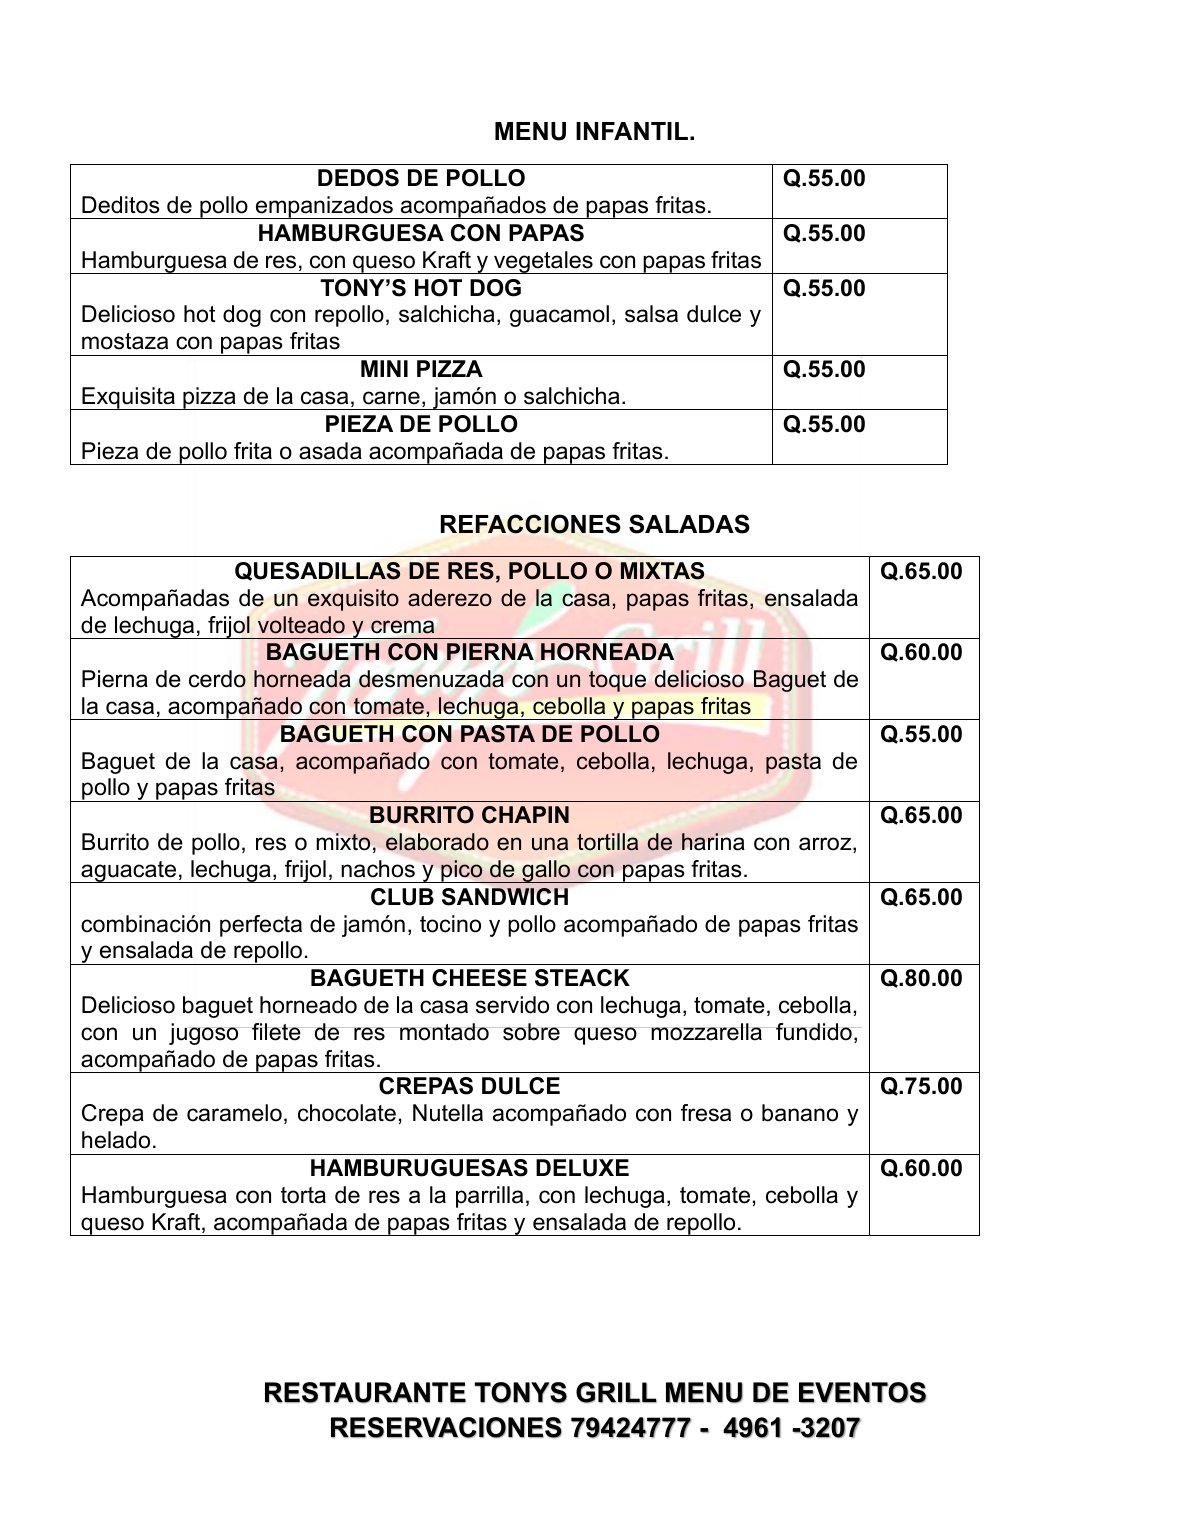
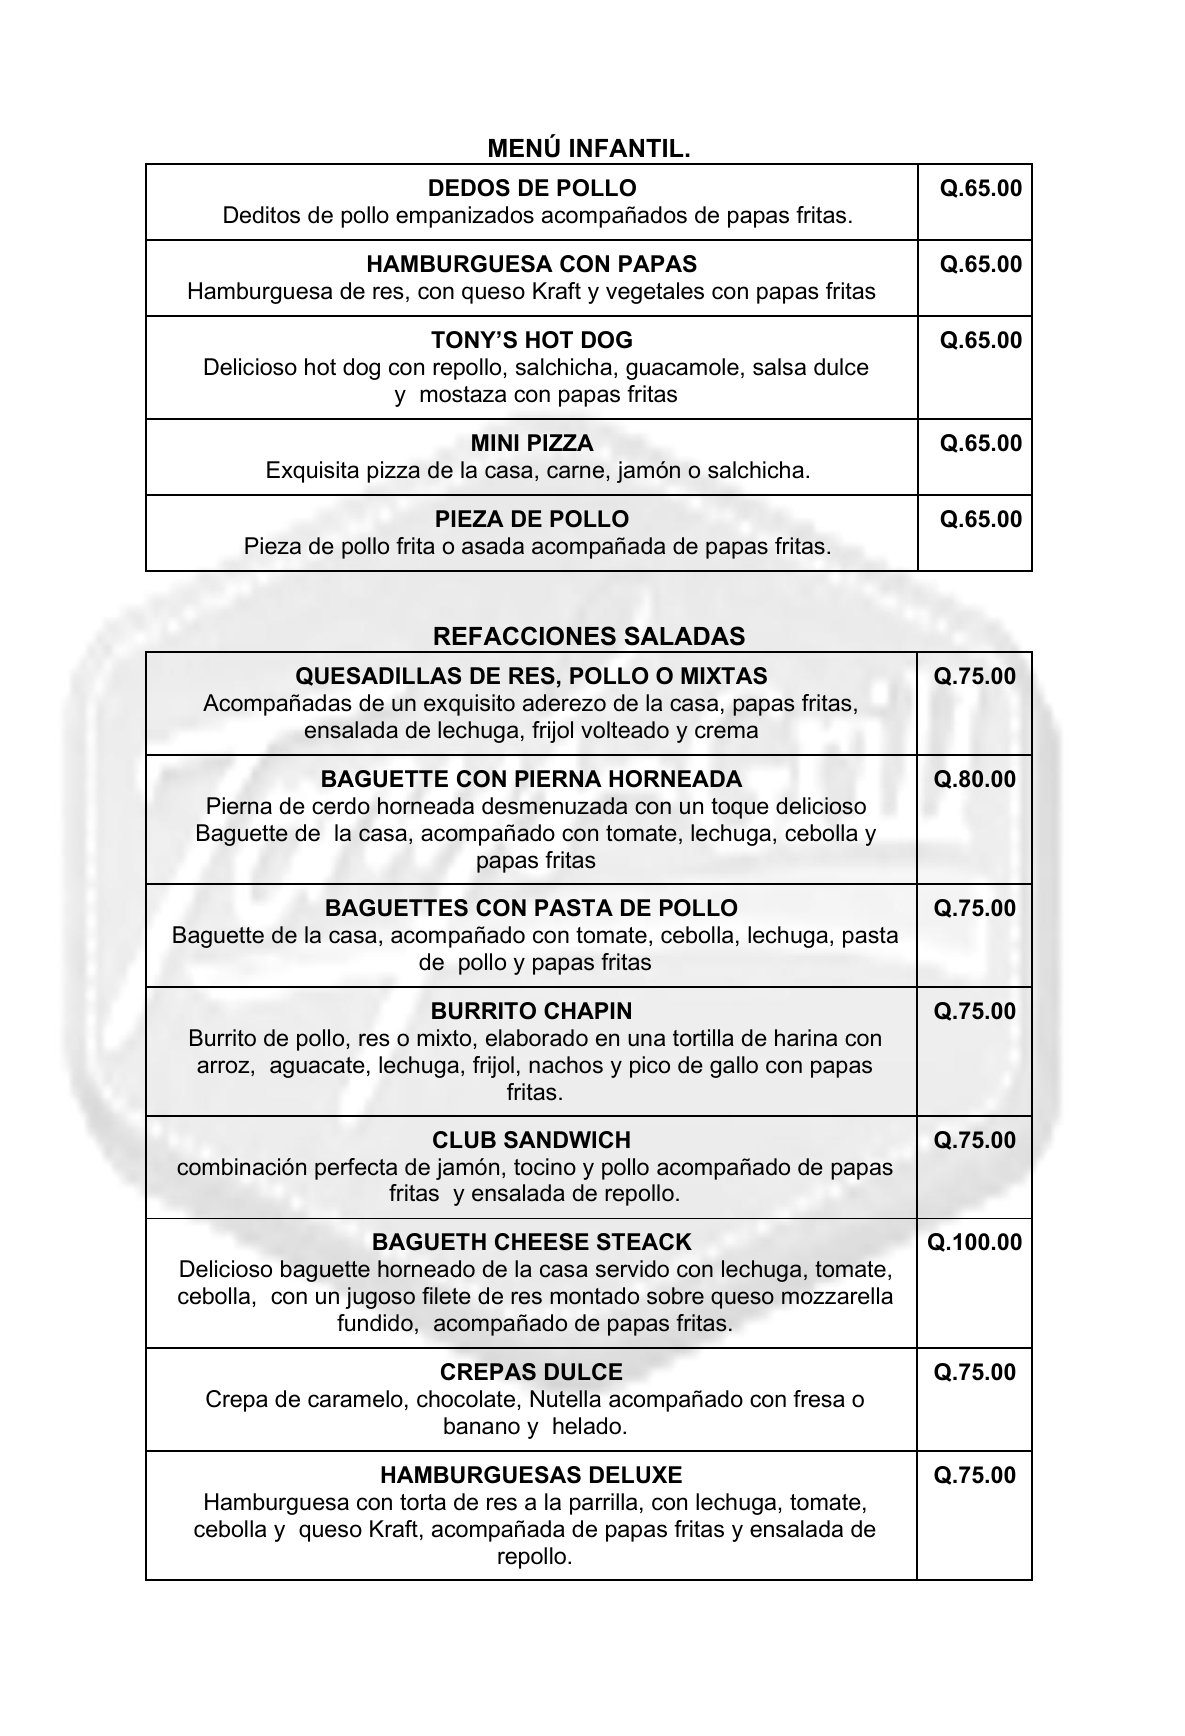
fix: replace Eventos 2024 with official Eventos 2026 menu items, prices, and PDF pages

Changed region(s): [[0.0624, 0.0623, 0.9055, 0.9351], [0.7494, 0.8104, 0.7806, 0.8416]]

diff --git a/src/data/menuData.ts b/src/data/menuData.ts
@@ -77,10 +77,10 @@ export const CATEGORY_PDF_PAGES: Record<string, { title: string; image: string }
     { title: 'Sangría 2x1 & Carpaccio', image: '/menu-pages/page-35.jpg' },
   ],
   eventos: [
-    { title: 'Eventos: Entradas y Platillos Fuertes', image: '/menu-pages/eventos-1.jpg' },
-    { title: 'Eventos: Menú Infantil y Refacciones Saladas', image: '/menu-pages/eventos-2.jpg' },
-    { title: 'Eventos: Servicio V.I.P., Descorche y Pagos', image: '/menu-pages/eventos-3.jpg' },
-    { title: 'Eventos: Condiciones y Salón 2 Nivel', image: '/menu-pages/eventos-4.jpg' },
+    { title: 'Eventos 2026: Entradas y Platillos Fuertes', image: '/menu-pages/eventos-1.jpg' },
+    { title: 'Eventos 2026: Menú Infantil y Refacciones Saladas', image: '/menu-pages/eventos-2.jpg' },
+    { title: 'Eventos 2026: Descorche, Horarios y Pagos', image: '/menu-pages/eventos-3.jpg' },
+    { title: 'Eventos 2026: Salón 1 Nivel y Condiciones', image: '/menu-pages/eventos-4.jpg' },
   ],
 };
 
@@ -434,14 +434,14 @@ export const menuData: MenuDataItem[] = [
     destacado: false,
   },
 
-  // ================= MENÚ DE EVENTOS =================
+  // ================= MENÚ DE EVENTOS 2026 =================
   {
     id: 'evt-01',
     categoria: 'Menú de Eventos',
     slugCategoria: 'eventos',
     nombre: 'Nachos Chili Beans o Supremos (Eventos)',
-    descripcion: 'Porción de nachos con salsa de frijol, carne, pico de gallo o guacamol.',
-    precioQ: 60.00,
+    descripcion: 'Porción de nachos con salsa de frijol, carne, pico de gallo o guacamole.',
+    precioQ: 65.00,
     imagen: '/menu-pages/eventos-1.jpg',
     destacado: false,
   },
@@ -451,7 +451,7 @@ export const menuData: MenuDataItem[] = [
     slugCategoria: 'eventos',
     nombre: 'Ensalada de Chorizo Argentino (Eventos)',
     descripcion: 'Chorizo argentino asado a la parrilla con chimichurri cortado en rodajas con ensalada de lechuga pequeña.',
-    precioQ: 70.00,
+    precioQ: 75.00,
     imagen: '/menu-pages/eventos-1.jpg',
     destacado: false,
   },
@@ -459,7 +459,7 @@ export const menuData: MenuDataItem[] = [
     id: 'evt-03',
     categoria: 'Menú de Eventos',
     slugCategoria: 'eventos',
-    nombre: 'Nachos con Frijol o Guacamol (Eventos)',
+    nombre: 'Nachos con Frijol o Guacamole (Eventos)',
     descripcion: 'Porción de nachos con frijol volteado de la casa o con queso derretido.',
     precioQ: 60.00,
     imagen: '/menu-pages/eventos-1.jpg',
@@ -470,8 +470,8 @@ export const menuData: MenuDataItem[] = [
     categoria: 'Menú de Eventos',
     slugCategoria: 'eventos',
     nombre: 'Pechuga Rellena (Eventos)',
-    descripcion: 'Filete de pollo relleno con jamón y queso, bañado en salsa bechamel, acompañado de verduras y arroz, pan o tortilla. (Opción V.I.P.: Q110.00)',
-    precioQ: 100.00,
+    descripcion: 'Filete de pollo relleno con jamón y queso, bañado en salsa bechamel, acompañado de verduras y arroz, pan o tortilla. (Opción V.I.P.: Q125.00)',
+    precioQ: 110.00,
     imagen: '/menu-pages/eventos-1.jpg',
     destacado: false,
   },
@@ -480,8 +480,8 @@ export const menuData: MenuDataItem[] = [
     categoria: 'Menú de Eventos',
     slugCategoria: 'eventos',
     nombre: 'Parrillada para 1 Persona (Eventos)',
-    descripcion: '4 oz de puyazo importado, 4 oz de filete de pollo, chorizo argentino, ensalada rusa, elote, frijol, guacamol, chirmol, cebollín, papa asada, tortillas o pan. (Opción V.I.P.: Q125.00)',
-    precioQ: 115.00,
+    descripcion: '4 oz de puyazo importado, 4 oz de filete de pollo, chorizo argentino, ensalada rusa, elote, frijol, guacamole, chirmol, cebollín, papa asada, tortillas o pan. (Opción V.I.P.: Q150.00)',
+    precioQ: 135.00,
     imagen: '/menu-pages/eventos-1.jpg',
     destacado: true,
   },
@@ -490,8 +490,8 @@ export const menuData: MenuDataItem[] = [
     categoria: 'Menú de Eventos',
     slugCategoria: 'eventos',
     nombre: 'Filete de Pollo (Eventos)',
-    descripcion: 'Filete de pollo a la parrilla bañado en salsa blanca con champiñones y toque de espinaca, con arroz, verduras salteadas y tortillas o pan. (Opción V.I.P.: Q105.00)',
-    precioQ: 95.00,
+    descripcion: 'Exquisito filete de pollo a la parrilla bañado en salsa blanca con champiñones y toque de espinaca, con arroz, verduras salteadas y tortillas o pan. (Opción V.I.P.: Q125.00)',
+    precioQ: 105.00,
     imagen: '/menu-pages/eventos-1.jpg',
     destacado: false,
   },
@@ -500,8 +500,8 @@ export const menuData: MenuDataItem[] = [
     categoria: 'Menú de Eventos',
     slugCategoria: 'eventos',
     nombre: 'Churrasco Chapín (Eventos)',
-    descripcion: 'Filete de puyazo o lomito nacional, chorizo argentino, papa asada, frijol volteado, chirmol, guacamol, queso fresco, tortillas o pan. (Opción V.I.P.: Q135.00)',
-    precioQ: 125.00,
+    descripcion: 'Filete de puyazo o lomito nacional, chorizo argentino, papa asada, frijol volteado, chirmol, guacamole, queso fresco, tortillas o pan. (Opción V.I.P.: Q155.00)',
+    precioQ: 135.00,
     imagen: '/menu-pages/eventos-1.jpg',
     destacado: true,
   },
@@ -510,8 +510,8 @@ export const menuData: MenuDataItem[] = [
     categoria: 'Menú de Eventos',
     slugCategoria: 'eventos',
     nombre: 'Pollo con Champiñones (Eventos)',
-    descripcion: 'Pieza de pollo con hueso a la parrilla cocinada en salsa a base de vino blanco con champiñones salteados, pan o tortillas. (Opción V.I.P.: Q95.00)',
-    precioQ: 85.00,
+    descripcion: 'Pieza de pollo con hueso a la parrilla cocinada en salsa a base de vino blanco con champiñones salteados, pan o tortillas. (Opción V.I.P.: Q125.00)',
+    precioQ: 100.00,
     imagen: '/menu-pages/eventos-1.jpg',
     destacado: false,
   },
@@ -520,8 +520,8 @@ export const menuData: MenuDataItem[] = [
     categoria: 'Menú de Eventos',
     slugCategoria: 'eventos',
     nombre: 'Puyazo al Vino Tinto (Eventos)',
-    descripcion: '6 oz de puyazo importado sellado a la parrilla, cocinado en vino tinto con papas baby sazonadas y ensalada de lechuga, tortillas o pan. (Opción V.I.P.: Q140.00)',
-    precioQ: 130.00,
+    descripcion: '6 oz de puyazo importado sellado sobre la parrilla y cocinado en vino tinto, acompañado con papas baby sazonadas y ensalada de lechuga, tortillas o pan. (Opción V.I.P.: Q180.00)',
+    precioQ: 165.00,
     imagen: '/menu-pages/eventos-1.jpg',
     destacado: true,
   },
@@ -529,9 +529,9 @@ export const menuData: MenuDataItem[] = [
     id: 'evt-10',
     categoria: 'Menú de Eventos',
     slugCategoria: 'eventos',
-    nombre: 'Chuleta de Cerdo al Vino (Eventos)',
-    descripcion: 'Dos porciones de chuleta de cerdo en salsa de vino tinto, acompañado con arroz y zucchinis salteados con tortillas o pan. (Opción V.I.P.: Q115.00)',
-    precioQ: 100.00,
+    nombre: 'Costilla de Cerdo a la Brasa (Eventos)',
+    descripcion: 'Exquisita costilla de exportación con toque especial del chef, acompañada de vegetales salteados y arroz, con tortillas o pan. (Opción V.I.P.: Q140.00)',
+    precioQ: 120.00,
     imagen: '/menu-pages/eventos-1.jpg',
     destacado: false,
   },
@@ -539,9 +539,9 @@ export const menuData: MenuDataItem[] = [
     id: 'evt-11',
     categoria: 'Menú de Eventos',
     slugCategoria: 'eventos',
-    nombre: 'Costilla de Cerdo a la Brasa (Eventos)',
-    descripcion: 'Costilla de exportación con toque especial del chef, acompañada de vegetales salteados y arroz, con tortillas o pan. (Opción V.I.P.: Q120.00)',
-    precioQ: 115.00,
+    nombre: 'Pierna de Cerdo Horneada (Eventos)',
+    descripcion: '8 oz de pierna de cerdo acompañada con arroz y ensalada rusa, tortillas o pan. (Opción V.I.P.: Q135.00)',
+    precioQ: 125.00,
     imagen: '/menu-pages/eventos-1.jpg',
     destacado: false,
   },
@@ -549,9 +549,9 @@ export const menuData: MenuDataItem[] = [
     id: 'evt-12',
     categoria: 'Menú de Eventos',
     slugCategoria: 'eventos',
-    nombre: 'Pierna de Cerdo Horneada (Eventos)',
-    descripcion: '8 oz de pierna de cerdo acompañada con arroz y ensalada rusa, tortillas o pan. (Opción V.I.P.: Q110.00)',
-    precioQ: 100.00,
+    nombre: 'Filete de Pollo a la Florentina (Eventos)',
+    descripcion: 'Filete de pollo a la plancha en salsa de hongos con toque de crema, acompañado de puré de papa y vegetales salteados, tortillas o pan. (Opción V.I.P.: Q130.00)',
+    precioQ: 115.00,
     imagen: '/menu-pages/eventos-1.jpg',
     destacado: false,
   },
@@ -559,19 +559,19 @@ export const menuData: MenuDataItem[] = [
     id: 'evt-13',
     categoria: 'Menú de Eventos',
     slugCategoria: 'eventos',
-    nombre: 'Filete de Pollo a la Florentina (Eventos)',
-    descripcion: 'Filete de pollo a la plancha en salsa de hongos con toque de crema, acompañado de puré de papa y vegetales salteados, tortillas o pan. (Opción V.I.P.: Q110.00)',
-    precioQ: 100.00,
-    imagen: '/menu-pages/eventos-1.jpg',
+    nombre: 'Dedos de Pollo Infantil (Eventos)',
+    descripcion: 'Deditos de pollo empanizados acompañados de papas fritas.',
+    precioQ: 65.00,
+    imagen: '/menu-pages/eventos-2.jpg',
     destacado: false,
   },
   {
     id: 'evt-14',
     categoria: 'Menú de Eventos',
     slugCategoria: 'eventos',
-    nombre: 'Dedos de Pollo Infantil (Eventos)',
-    descripcion: 'Deditos de pollo empanizados acompañados de papas fritas.',
-    precioQ: 55.00,
+    nombre: 'Hamburguesa con Papas Infantil (Eventos)',
+    descripcion: 'Hamburguesa de res con queso Kraft, vegetales y papas fritas.',
+    precioQ: 65.00,
     imagen: '/menu-pages/eventos-2.jpg',
     destacado: false,
   },
@@ -579,9 +579,9 @@ export const menuData: MenuDataItem[] = [
     id: 'evt-15',
     categoria: 'Menú de Eventos',
     slugCategoria: 'eventos',
-    nombre: 'Hamburguesa con Papas Infantil (Eventos)',
-    descripcion: 'Hamburguesa de res con queso Kraft, vegetales y papas fritas.',
-    precioQ: 55.00,
+    nombre: "Tony's Hot Dog Infantil (Eventos)",
+    descripcion: 'Delicioso hot dog con repollo, salchicha, guacamole, salsa dulce y mostaza con papas fritas.',
+    precioQ: 65.00,
     imagen: '/menu-pages/eventos-2.jpg',
     destacado: false,
   },
@@ -589,9 +589,9 @@ export const menuData: MenuDataItem[] = [
     id: 'evt-16',
     categoria: 'Menú de Eventos',
     slugCategoria: 'eventos',
-    nombre: "Tony's Hot Dog Infantil (Eventos)",
-    descripcion: 'Hot dog con repollo, salchicha, guacamol, salsa dulce y mostaza con papas fritas.',
-    precioQ: 55.00,
+    nombre: 'Mini Pizza Infantil (Eventos)',
+    descripcion: 'Exquisita mini pizza de la casa de carne, jamón o salchicha.',
+    precioQ: 65.00,
     imagen: '/menu-pages/eventos-2.jpg',
     destacado: false,
   },
@@ -599,9 +599,9 @@ export const menuData: MenuDataItem[] = [
     id: 'evt-17',
     categoria: 'Menú de Eventos',
     slugCategoria: 'eventos',
-    nombre: 'Mini Pizza Infantil (Eventos)',
-    descripcion: 'Mini pizza de la casa de carne, jamón o salchicha.',
-    precioQ: 55.00,
+    nombre: 'Pieza de Pollo Infantil (Eventos)',
+    descripcion: 'Pieza de pollo frita o asada acompañada de papas fritas.',
+    precioQ: 65.00,
     imagen: '/menu-pages/eventos-2.jpg',
     destacado: false,
   },
@@ -609,9 +609,9 @@ export const menuData: MenuDataItem[] = [
     id: 'evt-18',
     categoria: 'Menú de Eventos',
     slugCategoria: 'eventos',
-    nombre: 'Pieza de Pollo Infantil (Eventos)',
-    descripcion: 'Pieza de pollo frita o asada acompañada de papas fritas.',
-    precioQ: 55.00,
+    nombre: 'Quesadillas de Res, Pollo o Mixtas (Eventos)',
+    descripcion: 'Refacción salada acompañada de aderezo de la casa, papas fritas, ensalada de lechuga, frijol volteado y crema.',
+    precioQ: 75.00,
     imagen: '/menu-pages/eventos-2.jpg',
     destacado: false,
   },
@@ -619,9 +619,9 @@ export const menuData: MenuDataItem[] = [
     id: 'evt-19',
     categoria: 'Menú de Eventos',
     slugCategoria: 'eventos',
-    nombre: 'Quesadillas de Res, Pollo o Mixtas (Eventos)',
-    descripcion: 'Refacción salada acompañada de aderezo de la casa, papas fritas, ensalada de lechuga, frijol volteado y crema.',
-    precioQ: 65.00,
+    nombre: 'Baguette con Pierna Horneada (Eventos)',
+    descripcion: 'Pierna de cerdo horneada desmenuzada en baguette de la casa con tomate, lechuga, cebolla y papas fritas.',
+    precioQ: 80.00,
     imagen: '/menu-pages/eventos-2.jpg',
     destacado: false,
   },
@@ -629,9 +629,9 @@ export const menuData: MenuDataItem[] = [
     id: 'evt-20',
     categoria: 'Menú de Eventos',
     slugCategoria: 'eventos',
-    nombre: 'Baguette con Pierna Horneada (Eventos)',
-    descripcion: 'Pierna de cerdo horneada desmenuzada en baguette de la casa con tomate, lechuga, cebolla y papas fritas.',
-    precioQ: 60.00,
+    nombre: 'Baguettes con Pasta de Pollo (Eventos)',
+    descripcion: 'Baguette de la casa acompañado con tomate, lechuga, pasta de pollo y papas fritas.',
+    precioQ: 75.00,
     imagen: '/menu-pages/eventos-2.jpg',
     destacado: false,
   },
@@ -639,9 +639,9 @@ export const menuData: MenuDataItem[] = [
     id: 'evt-21',
     categoria: 'Menú de Eventos',
     slugCategoria: 'eventos',
-    nombre: 'Baguette con Pasta de Pollo (Eventos)',
-    descripcion: 'Baguette de la casa acompañado con tomate, lechuga, pasta de pollo y papas fritas.',
-    precioQ: 55.00,
+    nombre: 'Burrito Chapín (Eventos)',
+    descripcion: 'Burrito de pollo, res o mixto en tortilla de harina con arroz, aguacate, lechuga, frijol, nachos, pico de gallo y papas fritas.',
+    precioQ: 75.00,
     imagen: '/menu-pages/eventos-2.jpg',
     destacado: false,
   },
@@ -649,9 +649,9 @@ export const menuData: MenuDataItem[] = [
     id: 'evt-22',
     categoria: 'Menú de Eventos',
     slugCategoria: 'eventos',
-    nombre: 'Burrito Chapín (Eventos)',
-    descripcion: 'Burrito de pollo, res o mixto en tortilla de harina con arroz, aguacate, lechuga, frijol, nachos, pico de gallo y papas fritas.',
-    precioQ: 65.00,
+    nombre: 'Club Sandwich (Eventos)',
+    descripcion: 'Combinación perfecta de jamón, tocino y pollo acompañado de papas fritas y ensalada de repollo.',
+    precioQ: 75.00,
     imagen: '/menu-pages/eventos-2.jpg',
     destacado: false,
   },
@@ -659,9 +659,9 @@ export const menuData: MenuDataItem[] = [
     id: 'evt-23',
     categoria: 'Menú de Eventos',
     slugCategoria: 'eventos',
-    nombre: 'Club Sandwich (Eventos)',
-    descripcion: 'Combinación perfecta de jamón, tocino y pollo acompañado de papas fritas y ensalada de repollo.',
-    precioQ: 65.00,
+    nombre: 'Bagueth Cheese Steack (Eventos)',
+    descripcion: 'Delicioso baguette horneado de la casa con lechuga, tomate, cebolla, jugoso filete de res sobre queso mozzarella fundido y papas fritas.',
+    precioQ: 100.00,
     imagen: '/menu-pages/eventos-2.jpg',
     destacado: false,
   },
@@ -669,9 +669,9 @@ export const menuData: MenuDataItem[] = [
     id: 'evt-24',
     categoria: 'Menú de Eventos',
     slugCategoria: 'eventos',
-    nombre: 'Baguette Cheese Steak (Eventos)',
-    descripcion: 'Baguette horneado de la casa con lechuga, tomate, cebolla, filete de res sobre queso mozzarella fundido y papas fritas.',
-    precioQ: 80.00,
+    nombre: 'Crepas Dulce (Eventos)',
+    descripcion: 'Crepa de caramelo, chocolate o Nutella acompañada con fresa o banano y helado.',
+    precioQ: 75.00,
     imagen: '/menu-pages/eventos-2.jpg',
     destacado: false,
   },
@@ -679,19 +679,9 @@ export const menuData: MenuDataItem[] = [
     id: 'evt-25',
     categoria: 'Menú de Eventos',
     slugCategoria: 'eventos',
-    nombre: 'Crepas Dulces (Eventos)',
-    descripcion: 'Crepa de caramelo, chocolate o Nutella acompañada con fresa o banano y helado.',
-    precioQ: 75.00,
-    imagen: '/menu-pages/eventos-2.jpg',
-    destacado: false,
-  },
-  {
-    id: 'evt-26',
-    categoria: 'Menú de Eventos',
-    slugCategoria: 'eventos',
     nombre: 'Hamburguesas Deluxe (Eventos)',
     descripcion: 'Hamburguesa con torta de res a la parrilla, lechuga, tomate, cebolla y queso Kraft, con papas fritas y ensalada de repollo.',
-    precioQ: 60.00,
+    precioQ: 75.00,
     imagen: '/menu-pages/eventos-2.jpg',
     destacado: false,
   },
